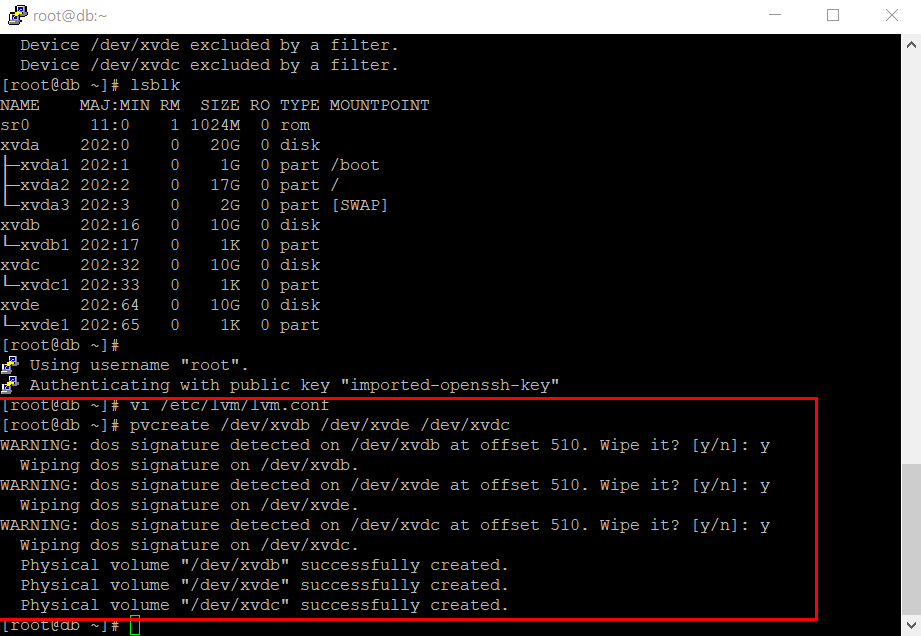
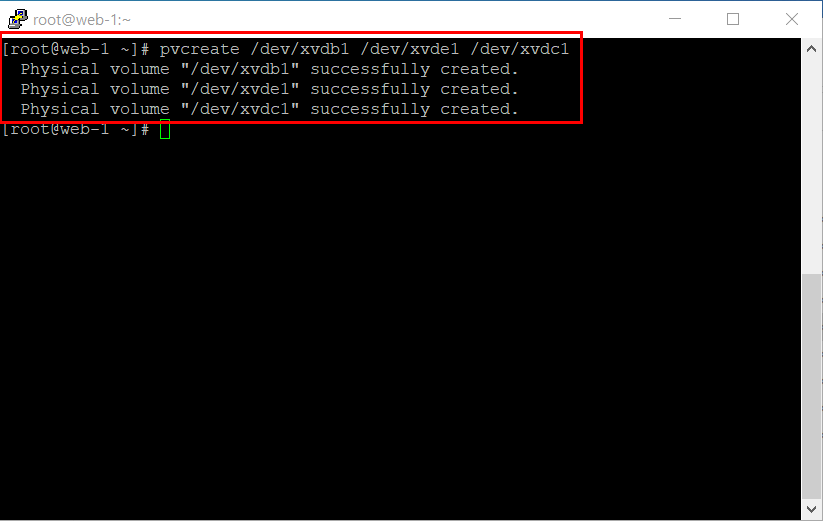
내용및사진 수정

Changed region(s): [[0.0, 0.0, 1.0, 1.0], [0.7594, 0.7985, 0.7898, 0.8599]]

diff --git a/LVM.md b/LVM.md
@@ -27,8 +27,8 @@ KTcloud의 가상환경에서 10GB HDD DISK를 3개 추가, LVM 후 `/data`에 m
     ```shell
     fdisk /dev/xvde # xvdb, xvdc도 해준다.
     n   
-    e
-    1
+    enter
+    enter
     enter
     enter
     w
@@ -46,17 +46,9 @@ PV(Physical Volume)는 LVM 용도로 초기화 된 파티션 또는 하드디스
 ### PV생성
 ```shell
 yum install -y lvm2 # lvm 패키지 설치
-vi /etc/lvm/lvm.conf # conf파일 설정
 ```
 ```shell
-devices {
-         types = [ "xvd", 1024 ]    # 추가
-}
-```
-![image](./image/lvm/7.png)<br/>
-
-```shell
-pvcreate /dev/xvdb /dev/xvde /dev/xvdc  # pv생성
+pvcreate /dev/xvdb1 /dev/xvde1 /dev/xvdc1  # pv생성
 ```
 ![image](./image/lvm/8.png)<br/>
 
@@ -65,7 +57,7 @@ PV들의 집합으로 LV를 할당할 수 있는 공간이다.
 
 ### VG생성
 ```shell
-vgcreate VGdata /dev/xvdc /dev/xvde /dev/xvdb   # vgcreate "VG 이름" "생성할 PV 이름"
+vgcreate VGdata /dev/xvdc1 /dev/xvde1 /dev/xvdb1   # vgcreate "VG 이름" "생성할 PV 이름"
 ```
 ![image](./image/lvm/9.png)<br/>
 
@@ -75,8 +67,7 @@ VG에서 논리적으로 Volum을 지정하여 만든 파티션이다.
 ### LV생성
 ```shell
 lvcreate -l 100%FREE -n LVdata VGdata   # LVdata라는 이름과 VG 100%용량으로 LV를 생성한다.
-mkfs.ext4 /dev/VGdata/LVdata    # 만든 LV 포맷
-```
+mkfs.ext4 /dev/VGdata/LVdata    # 파일시스템 생성
 ![image](./image/lvm/10.png)<br/>
 
 ### LV 마운트
